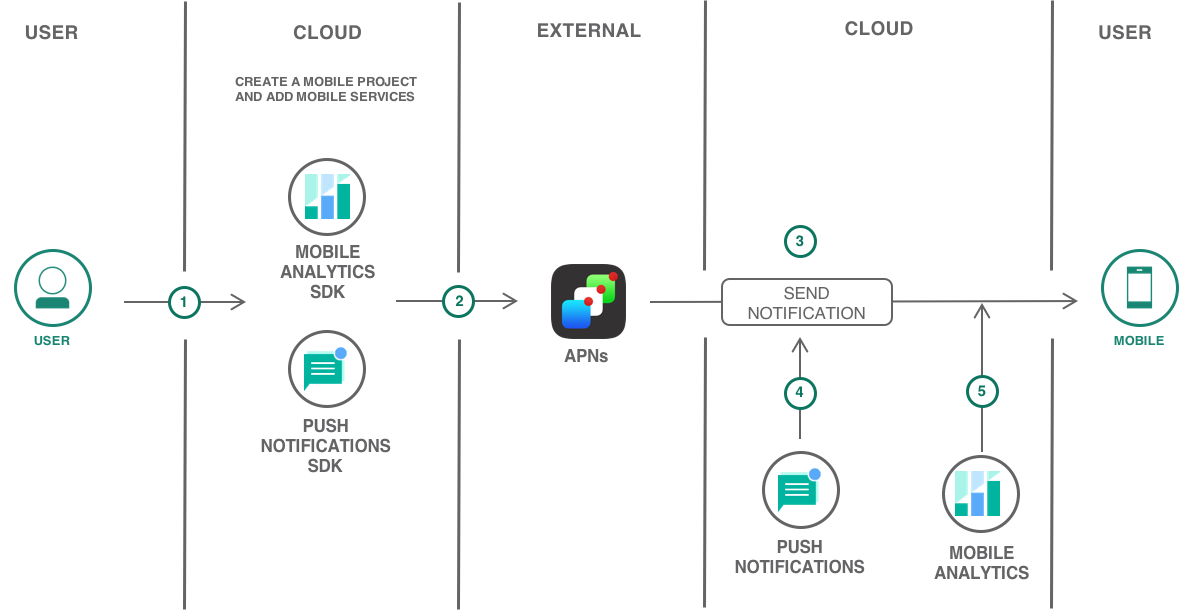
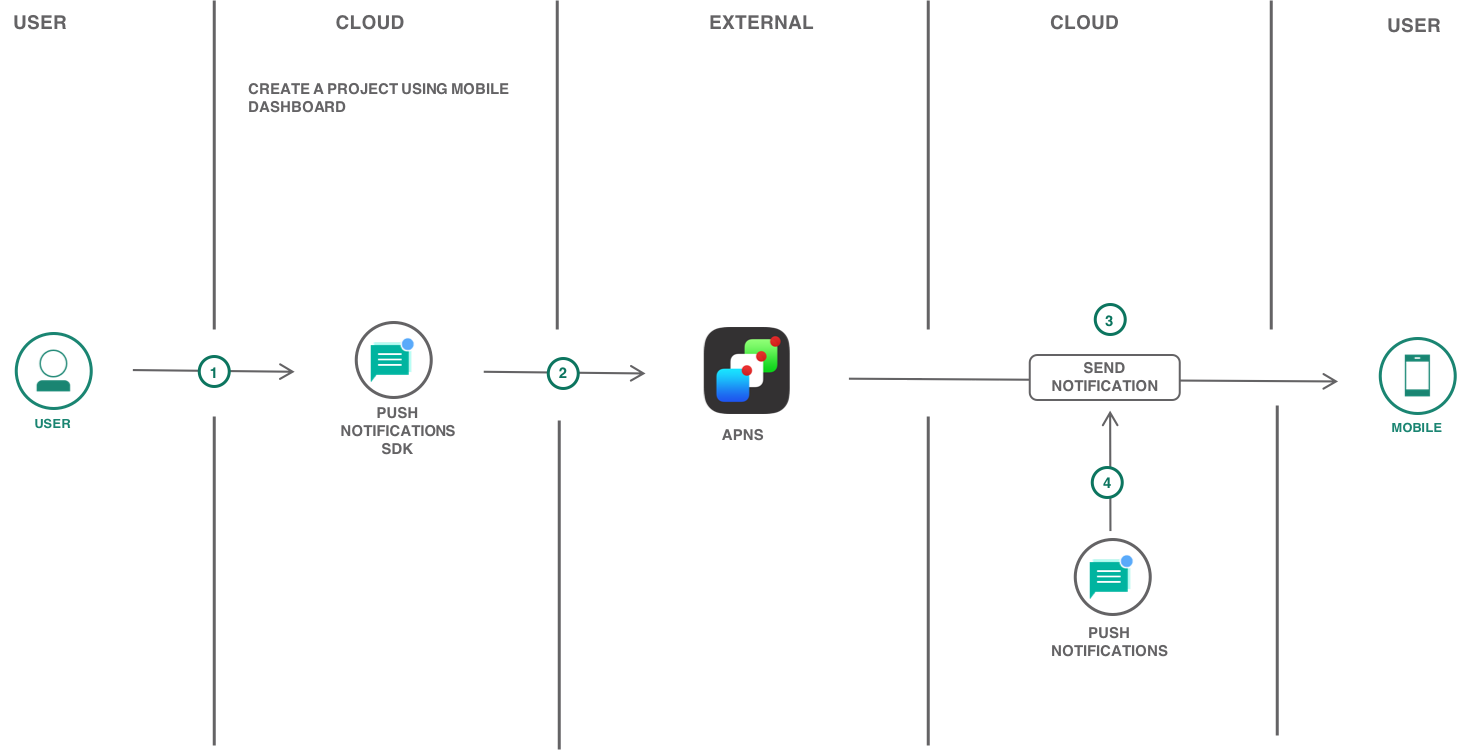
Removed mobile analytics from iOS tutorial

diff --git a/ios-mobile-push-analytics.md b/ios-mobile-push-analytics.md
@@ -1,7 +1,7 @@
 ---
 copyright:
   years: 2017, 2018
-lastupdated: "2018-05-08"
+lastupdated: "2018-10-01"
 
 ---
 
@@ -16,11 +16,11 @@ lastupdated: "2018-05-08"
 {:tip: .tip}
 {:pre: .pre}
 
-# iOS mobile application with Push and Analytics
+# iOS mobile application with Push Notifications
 
-Learn how easy it is to quickly create an iOS Swift application with high-value mobile services - {{site.data.keyword.mobilepushshort}} and {{site.data.keyword.mobileanalytics_short}} on {{site.data.keyword.Bluemix_short}}.
+Learn how easy it is to quickly create an iOS Swift application with high-value mobile service {{site.data.keyword.mobilepushshort}} on {{site.data.keyword.Bluemix_short}}.
 
-This tutorial walks you through the creation of a mobile starter application, adding mobile services, setting up client SDKs, importing the code to Xcode and then further enhance the application.
+This tutorial walks you through the creation of a mobile starter application, adding a mobile service, setting up client SDK, importing the code to Xcode and then further enhance the application.
 {:shortdesc: .shortdesc}
 
 ## Objectives
@@ -28,10 +28,8 @@ This tutorial walks you through the creation of a mobile starter application, ad
 
 - Create a mobile app with {{site.data.keyword.mobilepushshort}} and {{site.data.keyword.mobileanalytics_short}} services from Basic Swift starter kit.
 - Obtain APNs credentials and configure {{site.data.keyword.mobilepushshort}} service instance.
-- Download the code and setup client SDKs.
-- Instrumenting the app to use {{site.data.keyword.mobileanalytics_short}}.
+- Download the code and setup client SDK.
 - Send and monitor {{site.data.keyword.mobilepushshort}}.
-- Monitoring the app with {{site.data.keyword.mobileanalytics_short}}.
 
   ![](images/solution6/Architecture.png)
 
@@ -39,8 +37,7 @@ This tutorial walks you through the creation of a mobile starter application, ad
 {:#products}
 
 This tutorial uses the following products:
-   * [{{site.data.keyword.mobilepushfull}}](https://console.bluemix.net/catalog/services/mobile-analytics)
-   * [{{site.data.keyword.mobileanalytics_full}}](https://console.bluemix.net/catalog/services/push-notifications)
+   * [{{site.data.keyword.pushfull}}](https://console.bluemix.net/catalog/services/push-notifications)
 
 ## Before you begin
 {: #prereqs}
@@ -55,16 +52,18 @@ This tutorial uses the following products:
 2. Click on **Starter Kits** and scroll down to select **Basic** Starter Kit.
     ![](images/solution6/mobile_dashboard.png)
 3. Enter an app name which will also be the Xcode project and app name.
-4. Select `iOS-Swift` as your language and check the mobile services on the right pane.
-    ![](images/solution6/create_new_project.png)
-5. Click on **Create** to scaffold an iOS Swift App.
-6. A new App will be created under **Apps** tab on the left pane.
+4. Select `iOS Swift` as your language and click **Create**.
+    ![](images/solution6/create_mobile_project.png)
+5. Click on **Add Resource** > Mobile > **Push Notifications** and select the region you want to provision the service, resource group and **Lite** pricing plan.
+6. Click **Create** to provision {{site.data.keyword.mobilepushshort}} service. A new App will be created under **Apps** tab.
 
-      **Note:** {{site.data.keyword.mobilepushshort}} and {{site.data.keyword.mobileanalytics_short}} Services should already be added with the Basic Starter.
+      **Note:** {{site.data.keyword.mobilepushshort}} service should already be added with the Empty Starter.
 
 ## Download the code and setup client SDKs
+{: #download_code}
+
 If you haven't downloaded the code yet, Click on `Download Code` under Apps > `Your Mobile App`
-The downloaded code comes with **{{site.data.keyword.mobilepushshort}}** and **{{site.data.keyword.mobileanalytics_short}}** Client SDKs included. The Client SDKs are available on CocoaPods and Carthage. For this solution, you will use CocoaPods.
+The downloaded code comes with **{{site.data.keyword.mobilepushshort}}** Client SDK included. The Client SDK is available on CocoaPods and Carthage. For this solution, you will use CocoaPods.
 
 1. To install CocoaPods on your machine, Open the `Terminal` and run the below command.
    ```
@@ -84,41 +83,8 @@ The downloaded code comes with **{{site.data.keyword.mobilepushshort}}** and **{
   ```
   {: pre:}
 
-
-## Instrumenting the app to use {{site.data.keyword.mobileanalytics_short}}
-
-1. Open `.xcworkspace` in Xcode and navigate to `AppDelegate.swift`.
-  **Note:** Ensure that you always open the new Xcode workspace, instead of the original Xcode project file: `MyApp.xcworkspace`.
-   ![](images/solution6/Xcode.png)
-
-  `BMSCore` is the Core SDK and is base for the Mobile Client SDKs. `BMSClient` is a class of BMSCore and initialized in AppDelegate.swift. Along with BMSCore, {{site.data.keyword.mobileanalytics_short}} SDK is already imported into the project.
-2. Analytics initialization code is already included as shown below
-  ```
-  // Analytics client SDK is configured to record lifecycle events.
-         	Analytics.initialize(appName:dictionary["appName"] as? String,
-        			     apiKey: dictionary["analyticsApiKey"] as? String,
-        	        	     deviceEvents: .lifecycle)
-
-        	// Enable Logger (disabled by default) and set level to ERROR (DEBUG by default).
-        	Logger.isLogStorageEnabled = true
-        	Logger.logLevelFilter = .error
-  ```
-   {: codeblock:}
-
-  **Note:** The service credentials are part of `BMSCredentials.plist` file.
-
-3. Gathering usage analytics and using logger - Navigate to `ViewController.swift` to see the below code.
-   ```
-    func didBecomeActive(_ notification: Notification) {
-        Analytics.send()
-        Logger.send()
-     }
-   ```
-   For advanced Analytics and logging capabilities, Refer [Gathering usage Analytics](https://console.bluemix.net/docs/services/mobileanalytics/sdk.html#app-monitoring-gathering-analytics) and [logging](https://console.bluemix.net/docs/services/mobileanalytics/sdk.html#enabling-configuring-and-using-logger)
-   {:tip}
-
-
 ## Obtain APNs credentials and configure {{site.data.keyword.mobilepushshort}} service instance.
+{: #obtain_apns_credentials}
 
    For iOS devices and applications, Apple Push Notification Service (APNs) allows application developers to send remote notifications from {{site.data.keyword.mobilepushshort}} service instance on {{site.data.keyword.Bluemix_short}} (the provider) to iOS devices and applications. Messages are sent to a target application on the device.
 
@@ -212,6 +178,7 @@ To set up APNs on the `Push Notification services` console, complete the steps:
 ![](images/solution6/Mobile_push_configure.png)
 
 ## Configure,send, and monitor {{site.data.keyword.mobilepushshort}}
+{: #configure_push}
 
 1. Push initialization code (under `func application`) and notification registration code can be found in `AppDelegate.swift`. Provide a unique USER_ID(Optional).
 2. Run the app on a physical device as notifications can't be sent to an iPhone Simulator.
@@ -232,23 +199,9 @@ To set up APNs on the `Push Notification services` console, complete the steps:
 The IBM {{site.data.keyword.mobilepushshort}} service now extends capabilities to monitor the push performance by generating graphs from your user data. You can use the utility to list all the sent {{site.data.keyword.mobilepushshort}}, or to list all the registered devices and to analyze information on a daily, weekly, or monthly basis.
 ![](images/solution6/monitoring_messages.png)
 
-## Monitoring the app with {{site.data.keyword.mobileanalytics_short}}.
-The {{site.data.keyword.mobileanalytics_short}} service provides key application usage and performance insights for mobile application developers and application owners. By using {{site.data.keyword.mobileanalytics_short}} application owners and developers can understand what is happening on the user side, and they can use this insight to build better applications that are relevant to users and that stand out in the veritable sea of mobile applications.
-
-The service includes the {{site.data.keyword.mobileanalytics_short}} Console where developers and application owners can monitor mobile application performance, see usage statistics, and search device logs.
-
-1. Open the `{{site.data.keyword.mobileanalytics_short}}` service from the mobile app you created or click on the three vertical dots next to the service and select `Open Dashboard`.
-2. You should see LIVE Users, Sessions and other App Data by disabling `Demo Mode`. You can filter the analytics information by
-    * Date.
-    * Application.
-    * Operating System.
-    * Version of the app.
-         ![{{site.data.keyword.mobileanalytics_short}}](images/solution6/mobile_analytics.png)
-3. [Click here](https://console.bluemix.net/docs/services/mobileanalytics/app-monitoring.html#monitoringapps) to set alerts, Monitor App crashes, and Monitor network requests.
-
 ## Related Content
+{: #related_content}
 
 - [Tag-based notifications](https://console.bluemix.net/docs/services/mobilepush/push_step_4_nf_tag.html#tag_based_notifications)
 - [{{site.data.keyword.mobilepushshort}} REST APIs](https://console.bluemix.net/docs/services/mobilepush/push_restapi.html#push-api-rest)
 - [Security in {{site.data.keyword.mobilepushshort}}](https://console.bluemix.net/docs/services/mobilepush/push_security.html#overview-push)
-- [Exporting Analytics data to Db2 Warehouse](https://console.bluemix.net/docs/services/mobileanalytics/app-monitoring.html#dashdb)

diff --git a/android-mobile-push-analytics.md b/android-mobile-push-analytics.md
@@ -16,7 +16,7 @@ lastupdated: "2018-10-01"
 
 Learn how easy it is to quickly create a native Android application with high-value mobile service like {{site.data.keyword.mobilepushshort}} on {{site.data.keyword.Bluemix_notm}}.
 
-This tutorial walks you through the creation of a mobile starter application, adding mobile service(s), setting up client SDKs, importing the code to Android Studio and then further enhancing the application.
+This tutorial walks you through the creation of a mobile starter application, adding a mobile service, setting up client SDK, importing the code to Android Studio and then further enhancing the application.
 
 ## Objectives
 {: #objectives}
@@ -52,6 +52,7 @@ The {{site.data.keyword.Bluemix_notm}} Mobile Dashboard allows you to fast-track
     ![](images/solution9/create_mobile_project.png)
 5. Click on **Add Resource** > Mobile > **Push Notifications** and select the region you want to provision the service, resource group and **Lite** pricing plan.
 6. Click **Create** to provision {{site.data.keyword.mobilepushshort}} service. A new App will be created under **Apps** tab.
+
     **Note:** {{site.data.keyword.mobilepushshort}} service should be added with the Empty Starter.
     In the next step, you will obtain Firebase Cloud Messaging (FCM) credentials.
 
